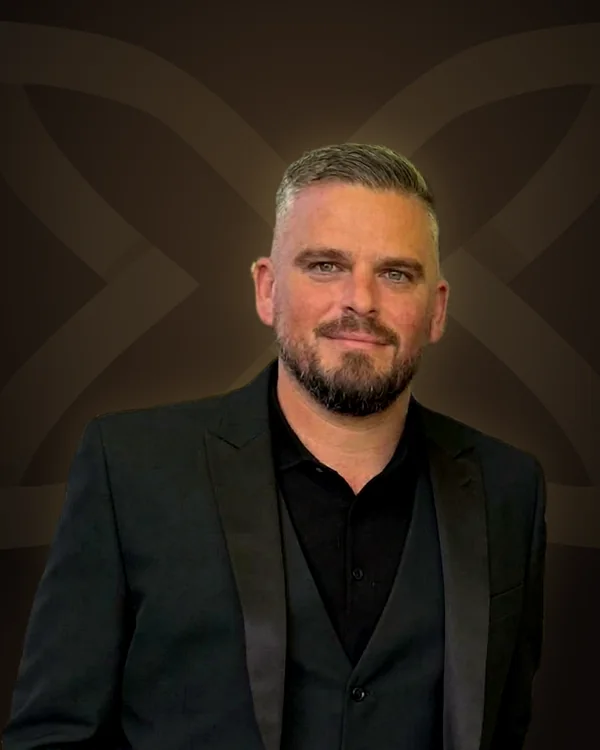
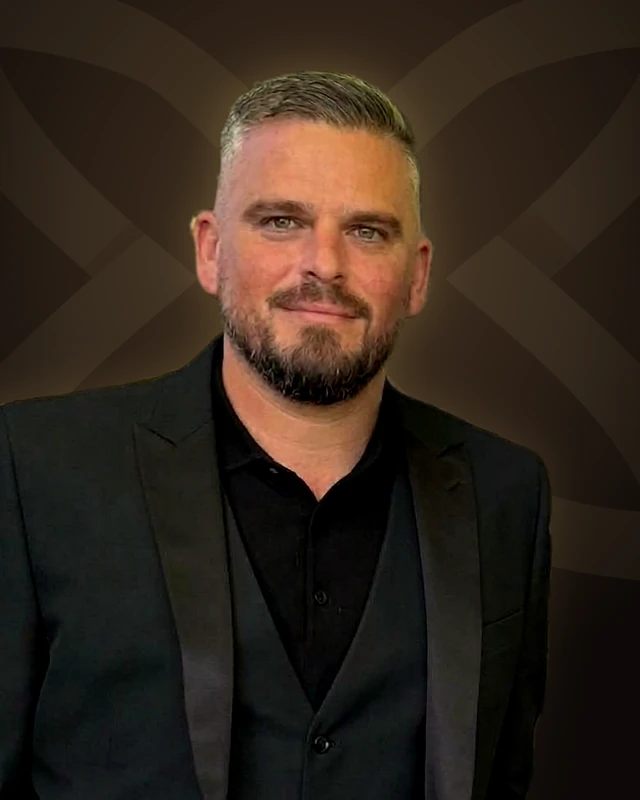
Nick's portrait: AI-upscaled, tighter head-and-shoulders crop, higher quality
Claude-Session: https://claude.ai/code/session_016bSKQUids8j4kjMDyX3Drx

diff --git a/index.html b/index.html
@@ -382,7 +382,7 @@
         <figure class="nick__photo">
           <img class="nick__mark" src="/assets/img/icon-gold.webp" alt="" aria-hidden="true" width="900" height="649" decoding="async">
           <div class="nick__frame">
-            <img class="nick__img" src="/assets/img/nick-souness.webp" srcset="/assets/img/nick-souness-600.webp 600w, /assets/img/nick-souness.webp 1000w" sizes="(max-width: 980px) 88vw, 40vw" alt="Nick Souness, Managing Director of Nexus Resourcing Group" width="1000" height="1250" loading="lazy" decoding="async">
+            <img class="nick__img" src="/assets/img/nick-souness.webp" srcset="/assets/img/nick-souness-600.webp 640w, /assets/img/nick-souness.webp 1200w" sizes="(max-width: 980px) 88vw, 40vw" alt="Nick Souness, Managing Director of Nexus Resourcing Group" width="1200" height="1500" loading="lazy" decoding="async">
           </div>
           <figcaption><strong>Nick Souness</strong> Managing Director</figcaption>
         </figure>
@@ -425,7 +425,7 @@
           <div class="panes">
             <div class="pane is-active" id="pane-call" role="tabpanel" aria-labelledby="tab-call">
               <div class="call">
-                <img class="call__face" src="/assets/img/nick-souness-face.webp" alt="" width="240" height="240" loading="lazy" decoding="async">
+                <img class="call__face" src="/assets/img/nick-souness-face.webp" alt="" width="320" height="320" loading="lazy" decoding="async">
                 <div>
                   <h3>A 30 minute discovery call with Nick</h3>
                   <p>Pick a time that suits you. Tell Nick about the project, the people you need and when you need them. No obligation.</p>

diff --git a/about/index.html b/about/index.html
@@ -130,7 +130,7 @@
         <figure class="nick__photo">
           <img class="nick__mark" src="/assets/img/icon-gold.webp" alt="" aria-hidden="true" width="900" height="649" decoding="async">
           <div class="nick__frame">
-            <img class="nick__img" src="/assets/img/nick-souness.webp" srcset="/assets/img/nick-souness-600.webp 600w, /assets/img/nick-souness.webp 1000w" sizes="(max-width: 980px) 88vw, 40vw" alt="Nick Souness, Managing Director of Nexus Resourcing Group" width="1000" height="1250" loading="lazy" decoding="async">
+            <img class="nick__img" src="/assets/img/nick-souness.webp" srcset="/assets/img/nick-souness-600.webp 640w, /assets/img/nick-souness.webp 1200w" sizes="(max-width: 980px) 88vw, 40vw" alt="Nick Souness, Managing Director of Nexus Resourcing Group" width="1200" height="1500" loading="lazy" decoding="async">
           </div>
           <figcaption><strong>Nick Souness</strong> Managing Director</figcaption>
         </figure>

diff --git a/tools/pages/home.html b/tools/pages/home.html
@@ -228,7 +228,7 @@
         <figure class="nick__photo">
           <img class="nick__mark" src="/assets/img/icon-gold.webp" alt="" aria-hidden="true" width="900" height="649" decoding="async">
           <div class="nick__frame">
-            <img class="nick__img" src="/assets/img/nick-souness.webp" srcset="/assets/img/nick-souness-600.webp 600w, /assets/img/nick-souness.webp 1000w" sizes="(max-width: 980px) 88vw, 40vw" alt="Nick Souness, Managing Director of Nexus Resourcing Group" width="1000" height="1250" loading="lazy" decoding="async">
+            <img class="nick__img" src="/assets/img/nick-souness.webp" srcset="/assets/img/nick-souness-600.webp 640w, /assets/img/nick-souness.webp 1200w" sizes="(max-width: 980px) 88vw, 40vw" alt="Nick Souness, Managing Director of Nexus Resourcing Group" width="1200" height="1500" loading="lazy" decoding="async">
           </div>
           <figcaption><strong>Nick Souness</strong> Managing Director</figcaption>
         </figure>

diff --git a/tools/pages/about.html b/tools/pages/about.html
@@ -57,7 +57,7 @@
         <figure class="nick__photo">
           <img class="nick__mark" src="/assets/img/icon-gold.webp" alt="" aria-hidden="true" width="900" height="649" decoding="async">
           <div class="nick__frame">
-            <img class="nick__img" src="/assets/img/nick-souness.webp" srcset="/assets/img/nick-souness-600.webp 600w, /assets/img/nick-souness.webp 1000w" sizes="(max-width: 980px) 88vw, 40vw" alt="Nick Souness, Managing Director of Nexus Resourcing Group" width="1000" height="1250" loading="lazy" decoding="async">
+            <img class="nick__img" src="/assets/img/nick-souness.webp" srcset="/assets/img/nick-souness-600.webp 640w, /assets/img/nick-souness.webp 1200w" sizes="(max-width: 980px) 88vw, 40vw" alt="Nick Souness, Managing Director of Nexus Resourcing Group" width="1200" height="1500" loading="lazy" decoding="async">
           </div>
           <figcaption><strong>Nick Souness</strong> Managing Director</figcaption>
         </figure>

diff --git a/contact/index.html b/contact/index.html
@@ -110,7 +110,7 @@
           <div class="panes">
             <div class="pane is-active" id="pane-call" role="tabpanel" aria-labelledby="tab-call">
               <div class="call">
-                <img class="call__face" src="/assets/img/nick-souness-face.webp" alt="" width="240" height="240" loading="lazy" decoding="async">
+                <img class="call__face" src="/assets/img/nick-souness-face.webp" alt="" width="320" height="320" loading="lazy" decoding="async">
                 <div>
                   <h3>A 30 minute discovery call with Nick</h3>
                   <p>Pick a time that suits you. Tell Nick about the project, the people you need and when you need them. No obligation.</p>

diff --git a/tools/partials/contact-card.html b/tools/partials/contact-card.html
@@ -8,7 +8,7 @@
           <div class="panes">
             <div class="pane is-active" id="pane-call" role="tabpanel" aria-labelledby="tab-call">
               <div class="call">
-                <img class="call__face" src="/assets/img/nick-souness-face.webp" alt="" width="240" height="240" loading="lazy" decoding="async">
+                <img class="call__face" src="/assets/img/nick-souness-face.webp" alt="" width="320" height="320" loading="lazy" decoding="async">
                 <div>
                   <h3>A 30 minute discovery call with Nick</h3>
                   <p>Pick a time that suits you. Tell Nick about the project, the people you need and when you need them. No obligation.</p>
